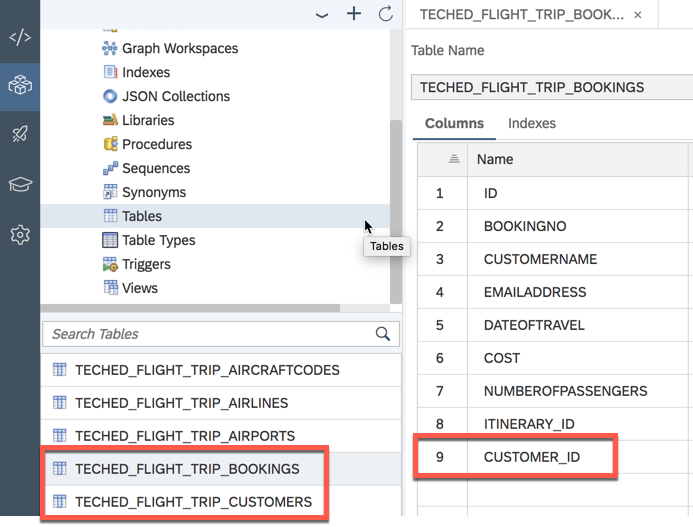
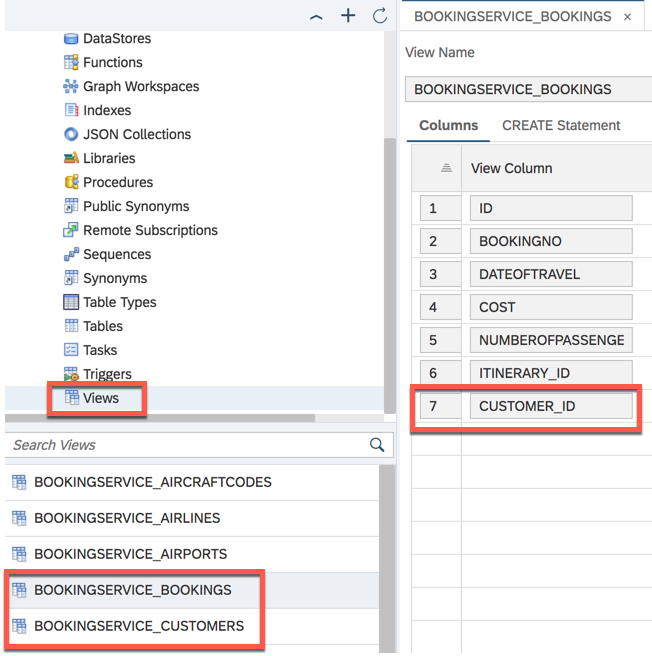
Use views to show data definitions and content

diff --git a/-exercises-/03-ConnectService/README.md b/-exercises-/03-ConnectService/README.md
@@ -117,11 +117,12 @@ The file explorer always shows the currently active branch:
 
 5.6. **Browse the database**
 
-   On the `db` folder, select `Open HDI Container`, which will lead you to the deployed tables.
-   Click on the `Tables` item in the tree.
+   On the `db` folder, select `Open HDI Container`, which will lead you to the deployed tables and views.
+   Click on the `Views` item in the tree.
    <p align="center"><img width="480" src="res/pic326a.png" alt="Browse the database"> </p>
 
-   > Note that there is a new table `..._CUSTOMERS` for the `Customers` entity.  Also, in table `..._BOOKINGS` you can see a new column `CUSTOMER_ID` holding the foreign key to the `CUSTOMERS` table.  In the next section you will see how this new table is filled with data from S/4HANA.
+   > Note that there is a new table `..._CUSTOMERS` for the `Customers` entity.  Also, in table `..._BOOKINGS` you can see a new column `CUSTOMER_ID` holding the foreign key to `CUSTOMERS`.
+   In the next section you will see how this new table is filled with data from S/4HANA.
 
 
 ### 6. Call S/4 in the Java code

diff --git a/-exercises-/02-Deploy/README.md b/-exercises-/02-Deploy/README.md
@@ -36,9 +36,10 @@ In this exercise you will have a look into the data model of the application and
 
    <p align="center"><img width="480" src="res/pic105.png" alt="Database explorer message"> </p>
 
-1.5. Click on the `Tables` icon on the left, select table `TECHED_FLIGHT_TRIP_BOOKINGS`, which opens the table editor.
+1.5. Click on the `Views` icon on the left, select view `BOOKINGSERVICE_BOOKINGS`, which opens the view editor.
 
-   <p align="center"><img width="860" src="res/pic110.png" alt="See table definition"> </p>
+   <!-- <p align="center"><img width="860" src="res/pic110.png" alt="See table definition"> </p> -->
+   <p align="center"><img width="860" src="res/pic110a.png" alt="See viewa definition"> </p>
 
 1.6. If you want to see the table data, click on the `Open Data` button on the top right.
 
